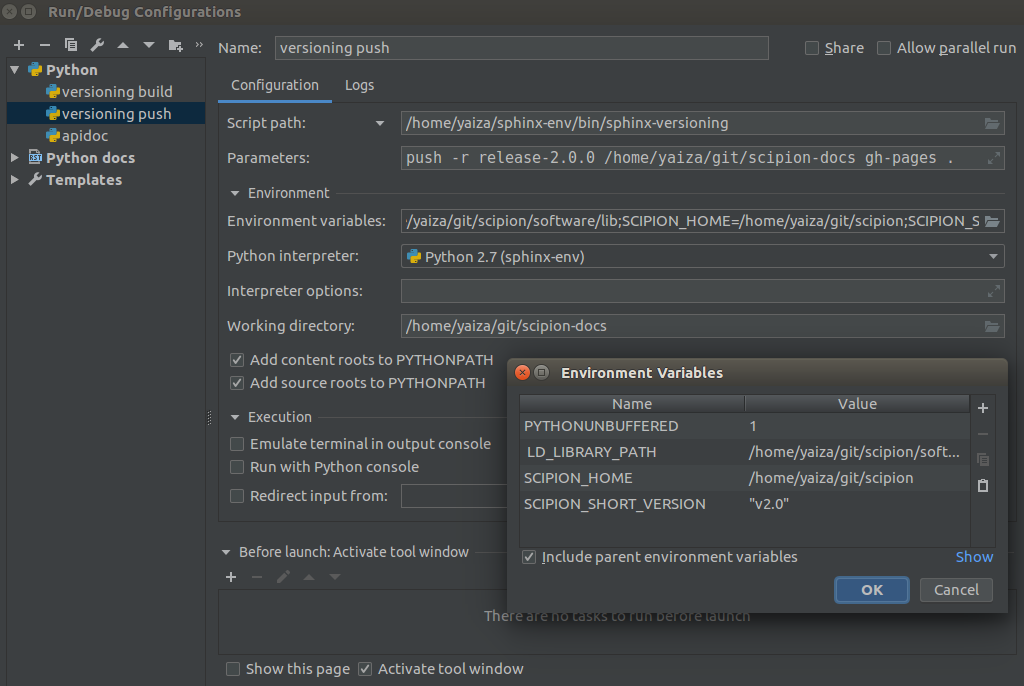
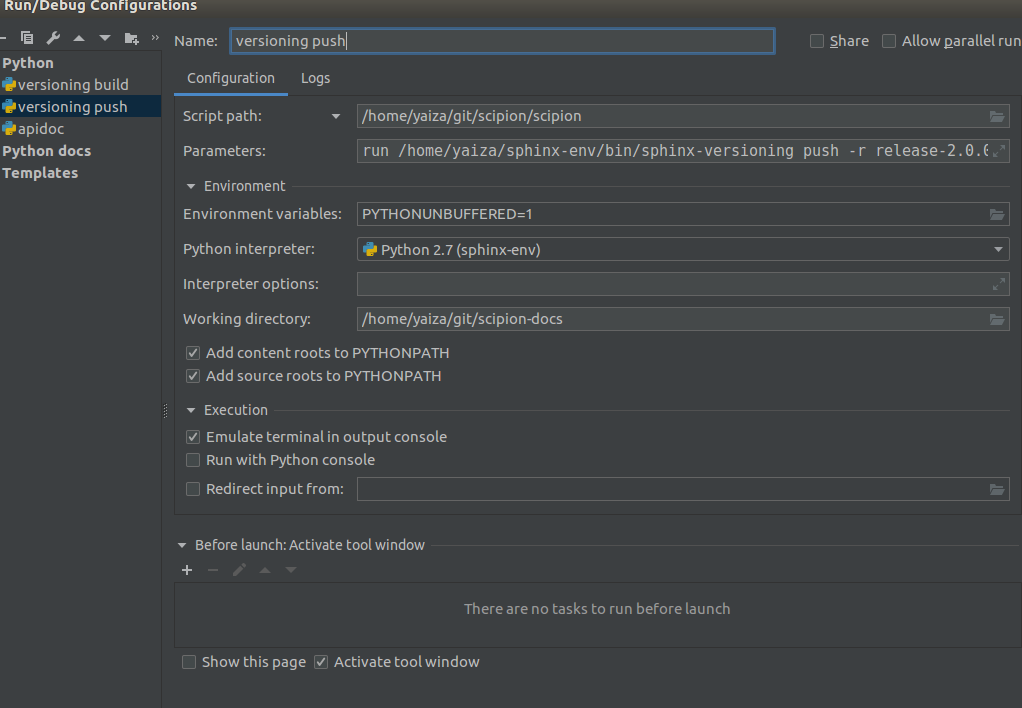
finally finish how to docs doc

diff --git a/docs/developer/building-scipion-docs.rst b/docs/developer/building-scipion-docs.rst
@@ -49,13 +49,13 @@ Sphinx virtualenv
     (sphinx-env) $ cd scipion-docs
     (sphinx-env) $ pip install -r requirements.txt
 
-NOTE: we could skip the environment creation and install the requirements in Scipion's python. Then we would run the
-commands using ``scipion run ...``. However the installation of requirements will mess with the versions currently
+NOTE: we could skip the environment creation and install the requirements in Scipion's python. However the installation of requirements will mess with the versions currently
 available in Scipion's site-packages.
 
 Scipion's environment variables
 -------------------------------
 
+If you plan on using a PyCharm run configurations, you can skip this step.
 Set environment variables to emulate Scipion's environment. We have to do this because in order to build the api
 docs, Sphinx actually imports the modules. Without these variables, many modules will fail to import. We need:
 ``SCIPION_HOME``, ``LD_LIBRARY_PATH``, ``SCIPION_SHORT_VERSION``. To export these variables, copy the output of the
@@ -69,11 +69,11 @@ following commands in a terminal:
     export SCIPION_HOME="/home/yaiza/git/scipion"
     export SCIPION_SHORT_VERSION="v2.0"
 
-If you plan on using a PyCharm run configuration, keep these values handy to copy them as environment vars.
 
 Generate API docs
 -----------------
 
+To run this we need ``SCIPION_HOME`` in the environment.
 The api docs are contained in the folder ``api`` of the scipion docs repository. To update them, we need to run
 ``sphinx-apidoc``. Please note that this step is not necessary if you're just adding your own written ``.rst`` file.
 
@@ -128,6 +128,12 @@ After executing this we should be able see the docs with version support by open
 
 We can also trigger this command with the following run configuration in PyCharm:
 
+* **Script path**: ``/home/yaiza/git/scipion/scipion``
+* **Parameters**: ``run /home/yaiza/sphinx-env/bin/sphinx-versioning build -r release-2.0.0 /home/yaiza/git/scipion-docs /home/yaiza/git/scipion_gh_pages``
+* **Python interpreter**: The one from our ``sphinx-env``
+* **Working directory**: Our ``scipion-docs`` repo dir.
+
+
 .. image:: /docs/images/dev-tools/pycharm_sphinxversion_build.png
    :alt: PyCharm run config for sphinx-version build
 
@@ -139,7 +145,10 @@ Once we are happy with the build, we can push our docs. For this we must run thi
 
     (sphinx-env) $ sphinx-versioning push -r release-2.0.0 /home/yaiza/git/scipion-docs gh-pages .
 
-The PyCharm run configuration:
+The PyCharm run configuration is the same as before except for the parameters:
+
+* **Parameters** : ``run /home/yaiza/sphinx-env/bin/sphinx-versioning build -r release-2.0.0 /home/yaiza/git/scipion-docs /home/yaiza/git/scipion_gh_pages``
+
 .. image:: /docs/images/dev-tools/pycharm_sphinxversion_push.png
    :alt: PyCharm run config for sphinx-version push
 
